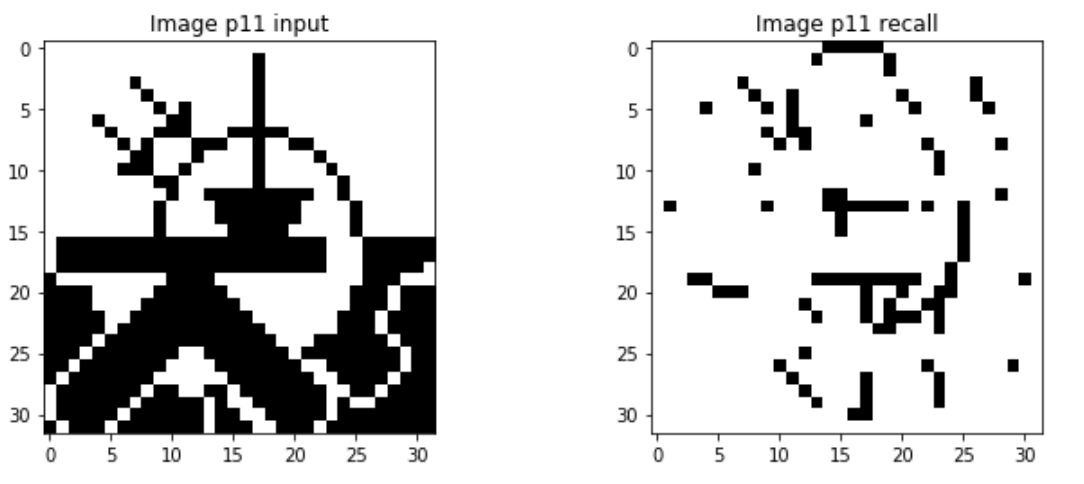
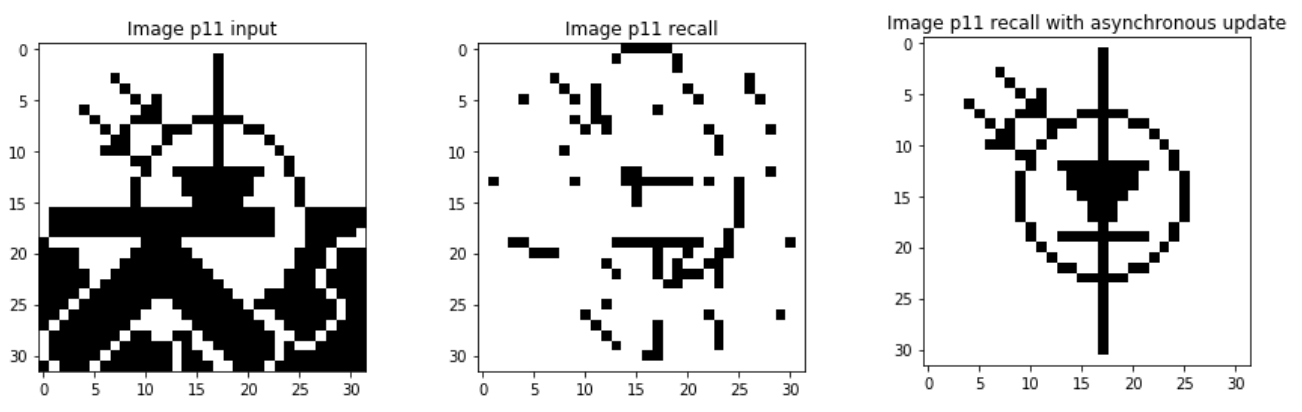
random finished

diff --git a/hopfield_functions.py b/hopfield_functions.py
@@ -85,6 +85,7 @@ def check_fixed_point_found(patterns_new, patterns_prev):
     return fixed_point_found
 
 
+
 def degraded_recall_epochs(patterns_prev, W, type_of_update="seq",epochs=1000, show_energy_per_epoch=False):
     n_patterns = patterns_prev.shape[0]
     n_nodes = patterns_prev.shape[1]
@@ -109,46 +110,47 @@ def random_update(pattern_prev, W):
     stability_found=False
     epoch = 0 
     n_iters_stable = 0
-    while ~stability_found:
-        pattern_new = np.zeros(n_nodes)
-        
-        epoch += 1
-        print(epoch)
-        random_idx_i = random.randint(0,n_nodes)
+    pattern_new = pattern_prev.copy()
+
+    while stability_found==False:
+        random_idx_i = random.randint(0,n_nodes-1)
         
         result_sum = 0
         for idx_node_j in range(n_nodes):
             result_sum += W[random_idx_i,idx_node_j] * pattern_prev[idx_node_j]
         pattern_new[random_idx_i] = our_sign(result_sum)    
 
-        
         if epoch%100==0:
             title_txt = "Iteration #%i" %(epoch+1)
-            img.display_img(pattern_new, title_txt)
+            img.display_img(pattern_new.reshape(1,-1), title_txt)
         
         # check for stability in random_update (we will do that it has converge if 5 times in a row it has the same value)
         stability_found, n_iters_stable = check_stability_random_update(pattern_prev, pattern_new, n_iters_stable)
         
-        if stability_reached(pattern_prev, pattern_new):
-            print("Stability reached in " + str(epoch+1) + " epochs.")
-            break
-            
         pattern_prev = pattern_new.copy()   
+        
+        epoch += 1
+        
+    print("Stability reached in " + str(epoch) + " epochs.")  
     
     return pattern_new   
       
         
     
-def check_stability_random_update(pattern_prev, pattern_new, n_iters_stable, threshold_iters_stable = 5):
+def check_stability_random_update(pattern_prev, pattern_new, n_iters_stable, threshold_iters_stable = 700):
+    
     stability_found = False
     stability_this_iter = stability_reached(pattern_prev, pattern_new)
     if stability_this_iter:
-        n_iters_stable += 1
+        print("Stable")
+        n_iters_stable_updated = n_iters_stable + 1
     else: 
-        n_iters_stable = 0 
-    if n_iters_stable == threshold_iters_stable:
+        print("No more stable")
+        n_iters_stable_updated = 0 
+    if n_iters_stable_updated == threshold_iters_stable:
+        print("FOUND")
         stability_found = True
-    return stability_found, n_iters_stable
+    return stability_found, n_iters_stable_updated
 
 
 

diff --git a/sequential_update.py b/sequential_update.py
@@ -57,22 +57,16 @@ img_functions.display_img(p11, "Image p11 input")
 p11_recall = hf.degraded_recall_epochs(p11, W, show_energy_per_epoch=True)
 img_functions.display_img(p11_recall, "Image p11 recall")
 
-"""
-# Random image
-rand_vec = np.random.randint(2, size=1024).reshape(1,-1)
-rand_vec[rand_vec == 0] = -1
-print(" \n\n ############### random image recall ############### ")
-rand_recall = hf.degraded_recall_epochs(rand_vec, W, epochs=100)
-plt.imshow(rand_recall.reshape(int(math.sqrt(pict.shape[1])),-1),  cmap='gray')
-plt.show()
-"""
-
-######## ASYNCHRONOUS RECALL FOR DEGRADED PATTERNS 
-
-p10_recall_async = hf.degraded_recall_epochs(p10, W, type_of_update="async", show_energy_per_epoch=True)
+p11_recall_async = hf.degraded_recall_epochs(p11, W, type_of_update="async")
+img_functions.display_img(p11_recall_async, "Image p11 recall with asynchronous update")
 
 
-p11_recall_async = hf.degraded_recall_epochs(p11, W, type_of_update="async", show_energy_per_epoch=True)
+######## RANDOM RECALL FOR DEGRADED PATTERNS 
+
+p10_recall_random = hf.degraded_recall_epochs(p10, W, type_of_update="random", show_energy_per_epoch=False)
+
+
+p11_recall_random = hf.degraded_recall_epochs(p11, W, type_of_update="random", show_energy_per_epoch=False)
 
 
 
@@ -85,6 +79,9 @@ print("Energy at p2: ", hf.calculate_energy(pict_for_learning[2],W))
 
 print("Energy at p10: " + str(hf.calculate_energy(p10, W)))
 print("Energy at p11: " + str(hf.calculate_energy(p11,W)))
+
+
+
 
 
 ########## NORMALLY DISTRIBUTED WEIGHT MATRIX ##########
